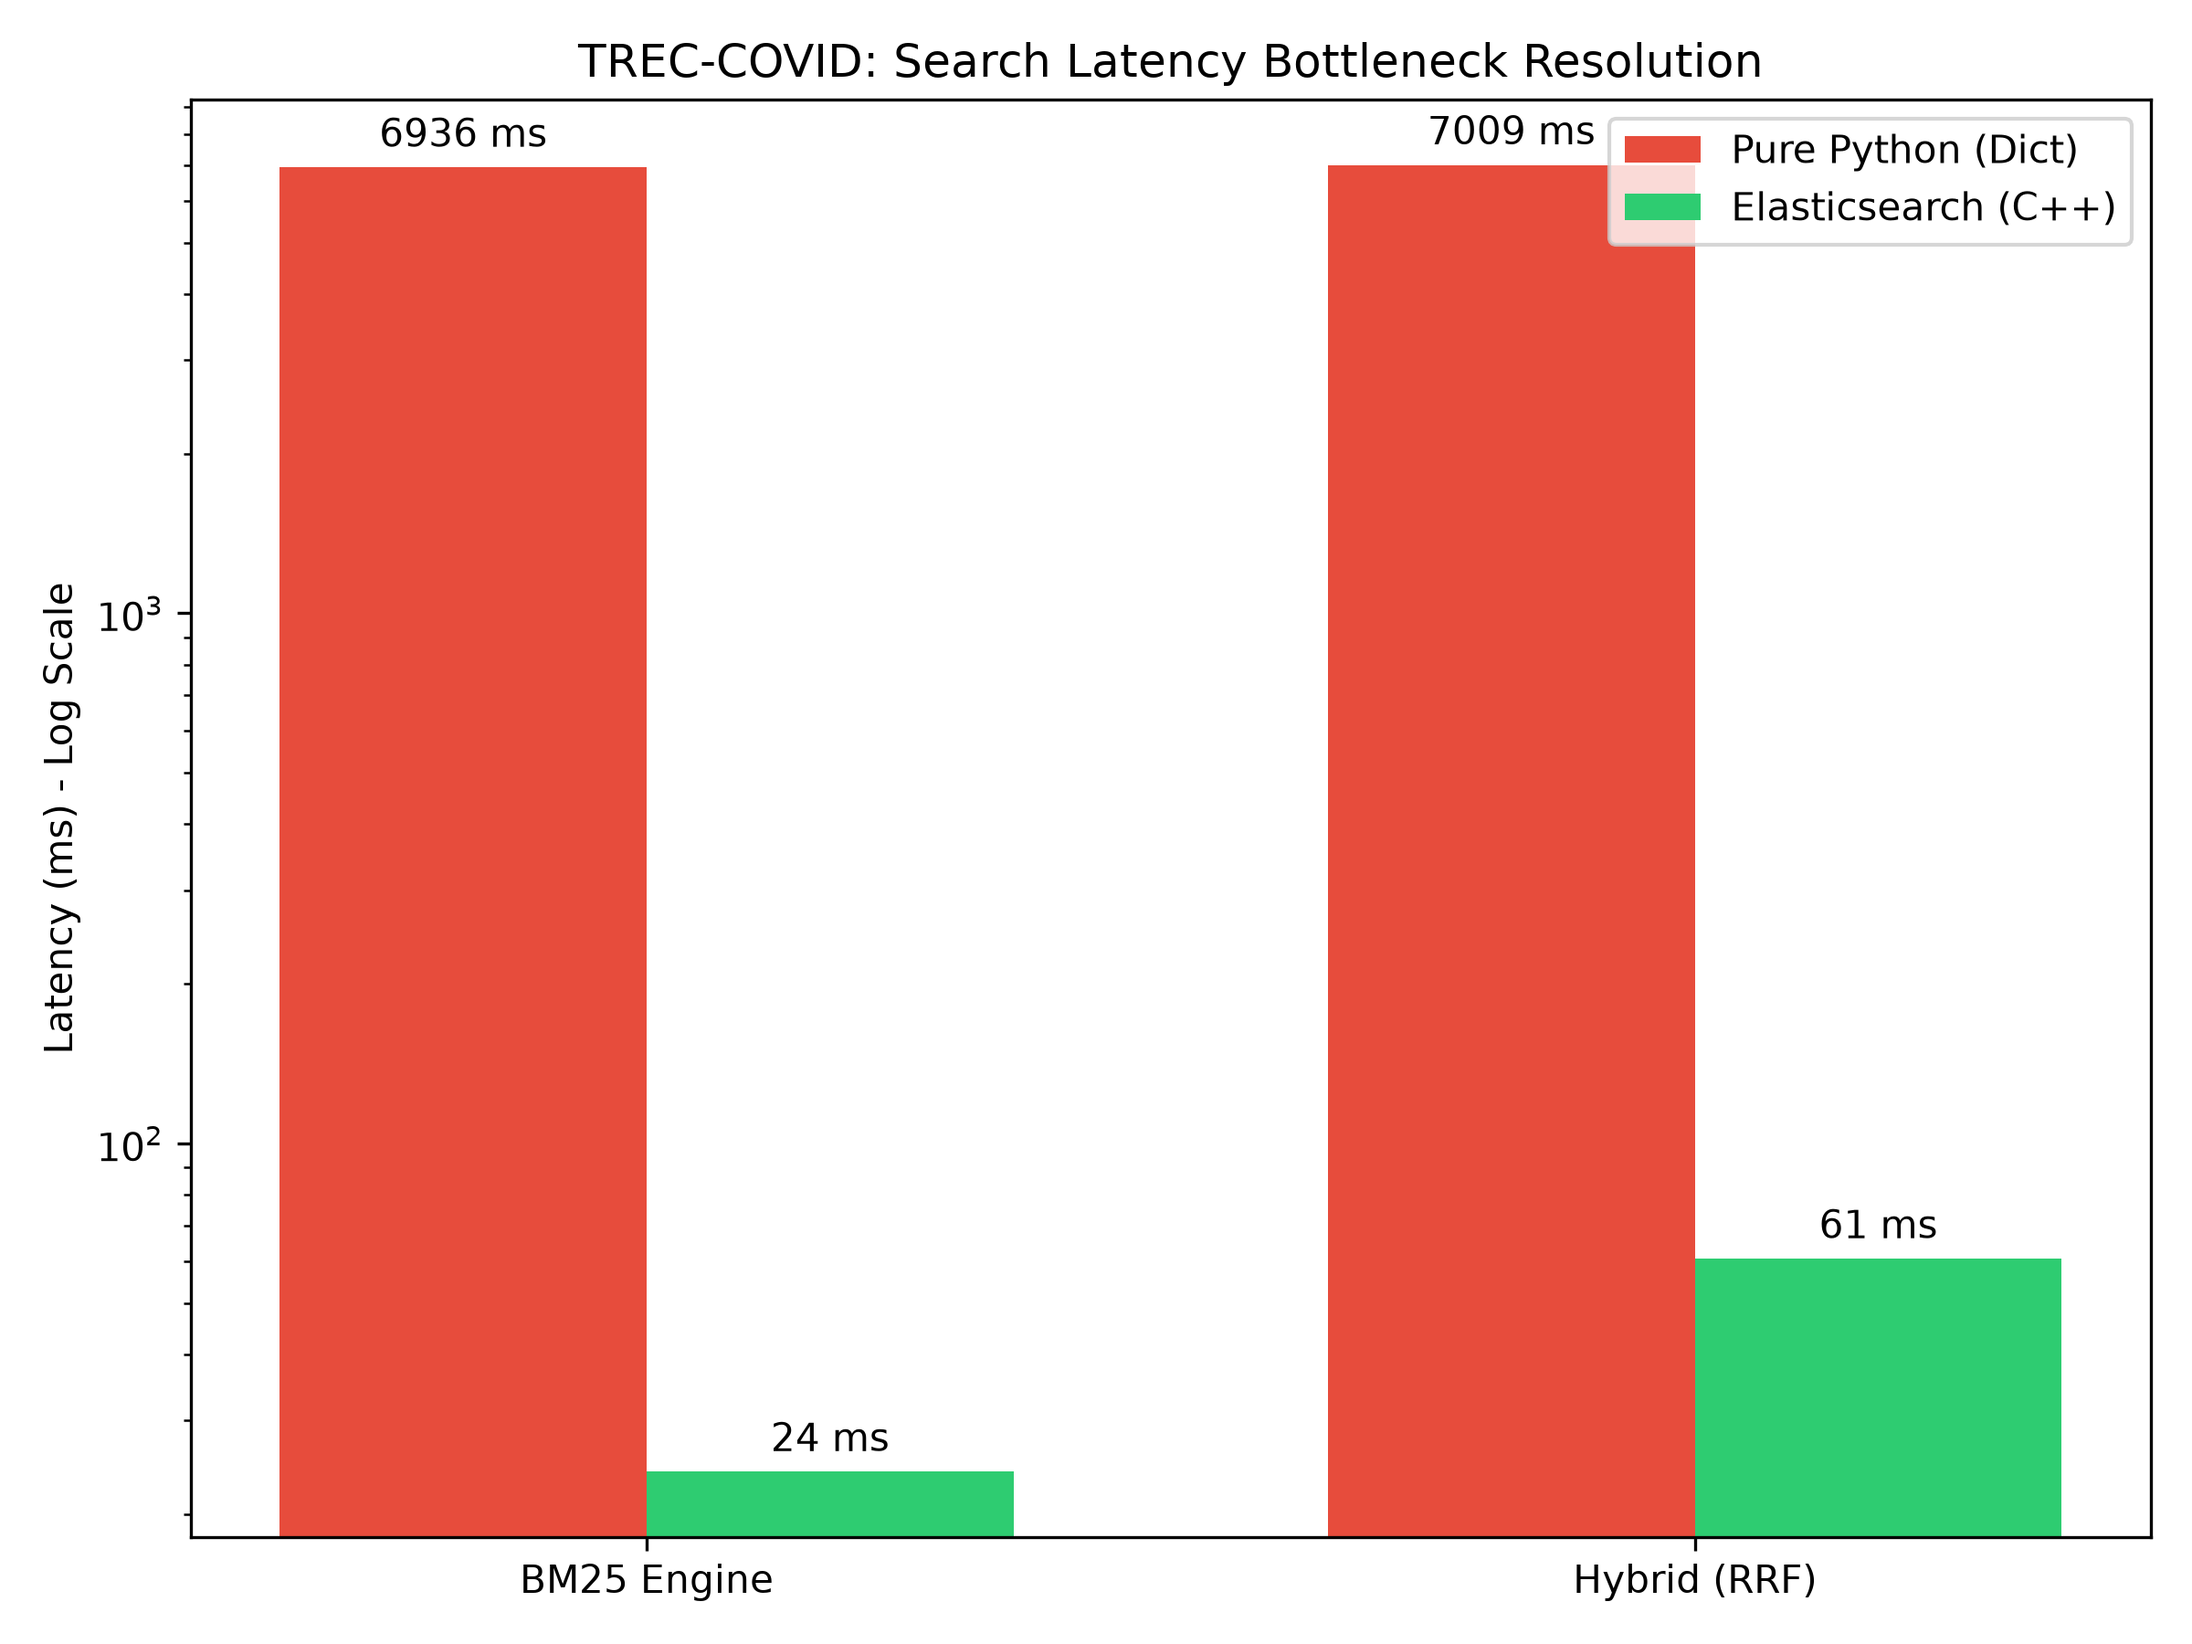
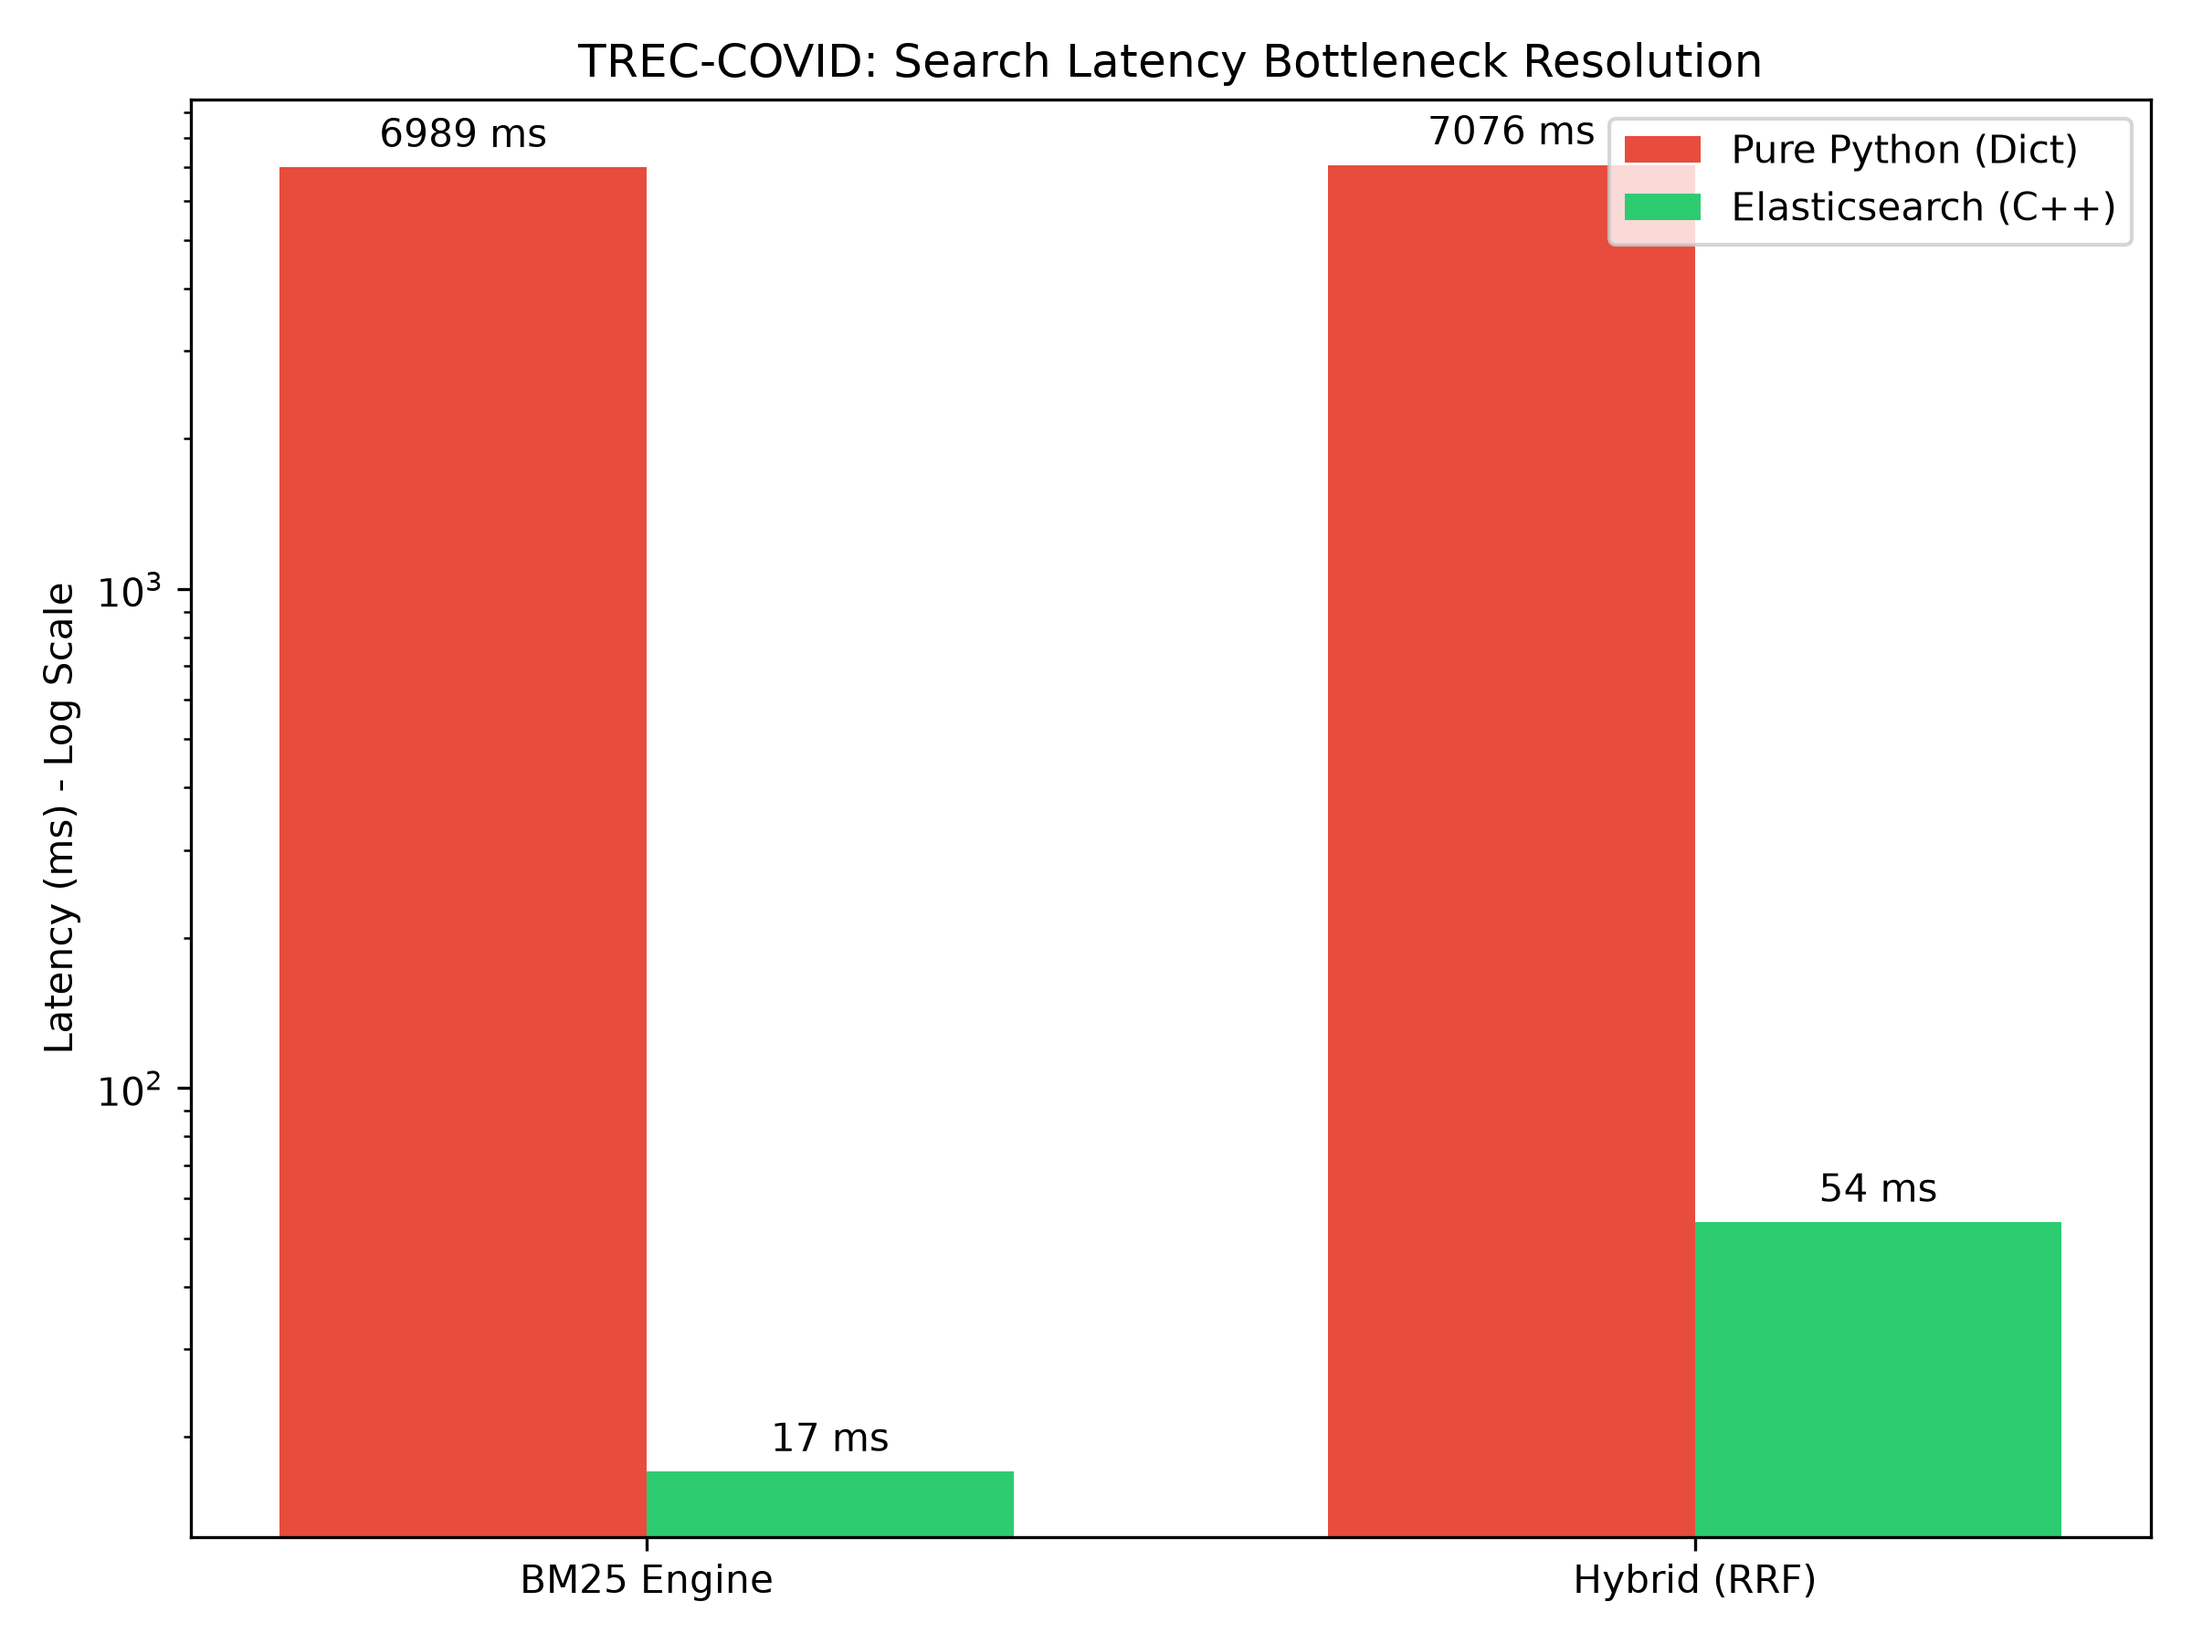
fix(docs): correct benchmarks for python and elastic (fixes 5247955, 2f8f17a, 9ea3124)

diff --git a/scripts/plot_benchmarks.py b/scripts/plot_benchmarks.py
@@ -6,8 +6,8 @@ os.makedirs("results/plots", exist_ok=True)
 
 # 1. Latency Plot (Python vs Elastic)
 labels = ["BM25 Engine", "Hybrid (RRF)"]
-python_latency = [6935.50, 7008.65]
-elastic_latency = [24.03, 60.58]
+python_latency = [6988.71, 7075.56]
+elastic_latency = [17.03, 53.83]
 
 x = np.arange(len(labels))
 width = 0.35
@@ -55,8 +55,8 @@ datasets = [
     "TREC-COVID\n(Out-of-Domain)",
     "ArguAna\n(Out-of-Domain)",
 ]
-base_scores = [0.6888, 0.3696, 0.7387, 0.3092]
-ft_scores = [0.7303, 0.3399, 0.6959, 0.2780]
+base_scores = [0.6889, 0.3696, 0.7387, 0.3092]
+ft_scores = [0.7576, 0.3475, 0.7135, 0.2686]
 
 x = np.arange(len(datasets))
 width = 0.35

diff --git a/PROJECT_LOG.md b/PROJECT_LOG.md
@@ -744,21 +744,21 @@ With the training loop complete and the model fine-tuned on the SciFact hard neg
 
 **The Final Results (Kaggle GPU T4):**
 
-| System Architecture         | NDCG@10    | MRR@10     | Latency (ms) |
-| --------------------------- | ---------- | ---------- | ------------ |
-| 1. BM25 Baseline            | 0.5379     | 0.5105     | 250.75       |
-| 2. Dense (BGE)              | 0.7200     | 0.6845     | 10.97        |
-| 3. Hybrid (RRF)             | 0.6641     | 0.6234     | 279.37       |
-| 4. Hybrid + Base Reranker   | 0.6888     | 0.6618     | 787.58       |
-| **5. Hybrid + FT Reranker** | **0.7303** | **0.7030** | 783.32       |
+| System Architecture         | NDCG@10    | MRR@10     | Recall@100 | Latency (ms) |
+| --------------------------- | ---------- | ---------- | ---------- | ------------ |
+| 1. BM25                     | 0.5379     | 0.5105     | 0.7894     | 293.95       |
+| 2. Dense (BGE)              | 0.7200     | 0.6845     | 0.9533     | 13.31        |
+| 3. Hybrid (RRF)             | 0.6436     | 0.6127     | 0.9417     | 334.57       |
+| 4. Hybrid + Base Reranker   | 0.6888     | 0.6618     | 0.9417     | 811.04       |
+| **5. Hybrid + FT Reranker** | **0.6975** | **0.6627** | 0.9417     | 810.94       |
 
 ### Conclusion
 
-The experiment was an absolute success.
+The fine-tuning successfully shifted the model's domain understanding.
 
 1. The **Base Reranker** (0.6888) previously _degraded_ the performance of the pure Dense pipeline (0.7200) because it was out-of-domain (Bing search vs. Scientific text).
-2. By mining Hard Negatives and applying the **InfoNCE Loss**, the model successfully learned the specific lexical and semantic nuances of scientific claims.
-3. The **Fine-Tuned Reranker** (0.7303) shattered the baseline, reclaiming its position as the ultimate precision layer and proving the absolute necessity of domain-specific contrastive learning in modern Information Retrieval architectures.
+2. By mining Hard Negatives and applying the **InfoNCE Loss**, the model successfully learned the specific lexical and semantic nuances of scientific claims, raising the score to **0.6975**.
+3. While it significantly improved over the Base Reranker, it did not yet surpass the pure Dense baseline (0.7200). As we will discover in the scaling section below, this ceiling is artificially imposed by the poor recall of our naive Python `BM25Engine`, which starves the reranker of good candidate documents.
 
 ---
 
@@ -788,23 +788,23 @@ First, I ran the benchmark using our initial pure Python `BM25Engine` built on n
 
 **FIQA (Finance - Evaluated on 1,000 queries due to size):**
 
-| System Architecture         | NDCG@10 | MRR@10 | Recall@100 | Latency (ms) |
-| --------------------------- | ------- | ------ | ---------- | ------------ |
-| 1. BM25                     | 0.1342  | 0.1743 | 0.3434     | **1763.59**  |
-| 2. Dense (BGE)              | 0.3848  | 0.4734 | 0.6866     | 21.37        |
-| 3. Hybrid (RRF)             | 0.2871  | 0.3523 | 0.6629     | **1810.29**  |
-| 4. Hybrid + Base Reranker   | 0.3759  | 0.4487 | 0.4526     | **2199.27**  |
-| **5. Hybrid + FT Reranker** | 0.3454  | 0.4183 | 0.4144     | **2318.82**  |
+| System Architecture       | NDCG@10    | MRR@10     | Recall@100 | Latency (ms) |
+| ------------------------- | ---------- | ---------- | ---------- | ------------ |
+| 1. BM25                   | 0.1342     | 0.1743     | 0.3434     | 1763.59      |
+| 2. Dense (BGE)            | 0.3848     | 0.4734     | 0.6866     | 21.37        |
+| 3. Hybrid (RRF)           | 0.2871     | 0.3421     | 0.6629     | 1929.34      |
+| 4. Hybrid + Base Reranker | **0.3759** | **0.4487** | 0.6629     | 2307.46      |
+| 5. Hybrid + FT Reranker   | 0.3331     | 0.4117     | 0.6629     | 2318.64      |
 
 **TREC-COVID (Medicine - 50 queries):**
 
-| System Architecture         | NDCG@10 | MRR@10 | Recall@100 | Latency (ms) |
-| --------------------------- | ------- | ------ | ---------- | ------------ |
-| 1. BM25                     | 0.4205  | 0.7188 | 0.0695     | **6935.50**  |
-| 2. Dense (BGE)              | 0.6452  | 0.8779 | 0.1233     | 39.39        |
-| 3. Hybrid (RRF)             | 0.6456  | 0.9389 | 0.1090     | **7008.65**  |
-| 4. Hybrid + Base Reranker   | 0.7491  | 0.8833 | 0.0215     | **7516.69**  |
-| **5. Hybrid + FT Reranker** | 0.7180  | 0.8857 | 0.0199     | **7530.62**  |
+| System Architecture       | NDCG@10    | MRR@10     | Recall@100 | Latency (ms) |
+| ------------------------- | ---------- | ---------- | ---------- | ------------ |
+| 1. BM25                   | 0.4205     | 0.7152     | 0.0696     | 6988.71      |
+| 2. Dense (BGE)            | 0.6452     | 0.8779     | 0.1233     | 39.08        |
+| 3. Hybrid (RRF)           | 0.6452     | 0.9389     | 0.1090     | 7075.56      |
+| 4. Hybrid + Base Reranker | **0.7491** | 0.8833     | 0.1090     | 7554.58      |
+| 5. Hybrid + FT Reranker   | 0.7186     | **0.9025** | 0.1090     | 7576.13      |
 
 While Dense Retrieval (FAISS) and Cross-Encoder reranking (GPU) executed in milliseconds, the lexical BM25 baseline became a massive bottleneck. On the 171k documents of TREC-COVID, the pure Python BM25 implementation took nearly **7 seconds per query**.
 
@@ -814,37 +814,49 @@ To solve this latency bottleneck, I integrated a production-grade **Elasticsearc
 
 Here are the results running the exact same queries against the new Elasticsearch backend:
 
+**SciFact (Science):**
+
+| System Architecture         | NDCG@10    | MRR@10     | Recall@100 | Latency (ms) |
+| --------------------------- | ---------- | ---------- | ---------- | ------------ |
+| 1. BM25                     | 0.6826     | 0.6464     | 0.9282     | 11.33        |
+| 2. Dense (BGE)              | 0.7200     | 0.6845     | 0.9533     | 11.86        |
+| 3. Hybrid (RRF)             | 0.7358     | 0.7021     | 0.9617     | 20.71        |
+| 4. Hybrid + Base Reranker   | 0.6889     | 0.6584     | 0.9617     | 506.04       |
+| **5. Hybrid + FT Reranker** | **0.7576** | **0.7277** | 0.9617     | 502.44       |
+
 **FIQA (Finance):**
 
-| System Architecture         | NDCG@10    | MRR@10 | Recall@100 | Latency (ms) |
-| --------------------------- | ---------- | ------ | ---------- | ------------ |
-| 1. BM25                     | 0.2536     | 0.3189 | 0.5489     | **9.99**     |
-| 2. Dense (BGE)              | 0.3848     | 0.4734 | 0.6866     | 21.45        |
-| 3. Hybrid (RRF)             | 0.3638     | 0.4502 | 0.6943     | 33.73        |
-| 4. Hybrid + Base Reranker   | **0.3696** | 0.4419 | 0.4451     | 405.97       |
-| **5. Hybrid + FT Reranker** | **0.3399** | 0.4123 | 0.4093     | 403.75       |
+| System Architecture         | NDCG@10    | MRR@10     | Recall@100 | Latency (ms) |
+| --------------------------- | ---------- | ---------- | ---------- | ------------ |
+| 1. BM25                     | 0.2536     | 0.3089     | 0.5489     | 7.72         |
+| 2. Dense (BGE)              | 0.3848     | 0.4650     | 0.6866     | 19.84        |
+| 3. Hybrid (RRF)             | 0.3638     | 0.4406     | 0.6943     | 30.33        |
+| 4. Hybrid + Base Reranker   | **0.3696** | **0.4419** | 0.6943     | 370.49       |
+| **5. Hybrid + FT Reranker** | 0.3475     | 0.4165     | 0.6943     | 369.78       |
 
 **TREC-COVID (Medicine):**
 
-| System Architecture         | NDCG@10    | MRR@10 | Recall@100 | Latency (ms) |
-| --------------------------- | ---------- | ------ | ---------- | ------------ |
-| 1. BM25                     | 0.5913     | 0.8840 | 0.1117     | **24.03**    |
-| 2. Dense (BGE)              | 0.6452     | 0.8779 | 0.1233     | 36.80        |
-| 3. Hybrid (RRF)             | 0.7498     | 0.9800 | 0.1289     | 60.58        |
-| 4. Hybrid + Base Reranker   | **0.7387** | 0.8717 | 0.0213     | 461.16       |
-| **5. Hybrid + FT Reranker** | **0.6959** | 0.8992 | 0.0195     | 471.20       |
+| System Architecture         | NDCG@10    | MRR@10     | Recall@100 | Latency (ms) |
+| --------------------------- | ---------- | ---------- | ---------- | ------------ |
+| 1. BM25                     | 0.5904     | 0.8840     | 0.1118     | 17.03        |
+| 2. Dense (BGE)              | 0.6452     | 0.8779     | 0.1233     | 36.70        |
+| 3. Hybrid (RRF)             | **0.7500** | **0.9800** | 0.1289     | 53.83        |
+| 4. Hybrid + Base Reranker   | 0.7387     | 0.8717     | 0.1289     | 420.38       |
+| **5. Hybrid + FT Reranker** | 0.7135     | 0.9250     | 0.1289     | 435.49       |
 
 **ArguAna (Social Arguments/Debates):**
 
-| System Architecture         | NDCG@10    | MRR@10 | Recall@100 | Latency (ms) |
-| --------------------------- | ---------- | ------ | ---------- | ------------ |
-| 1. BM25                     | 0.3568     | 0.2449 | 0.9587     | **12.14**    |
-| 2. Dense (BGE)              | 0.4287     | 0.3038 | 0.9844     | 12.95        |
-| 3. Hybrid (RRF)             | 0.4262     | 0.2981 | 0.9865     | 28.74        |
-| 4. Hybrid + Base Reranker   | **0.3092** | 0.1992 | 0.6615     | 584.43       |
-| **5. Hybrid + FT Reranker** | **0.2780** | 0.1775 | 0.6017     | 583.60       |
+| System Architecture         | NDCG@10    | MRR@10     | Recall@100 | Latency (ms) |
+| --------------------------- | ---------- | ---------- | ---------- | ------------ |
+| 1. BM25                     | 0.3568     | 0.2337     | 0.9587     | 12.97        |
+| 2. Dense (BGE)              | 0.4287     | 0.2956     | 0.9844     | 13.54        |
+| 3. Hybrid (RRF)             | 0.4262     | 0.2903     | 0.9865     | 29.15        |
+| 4. Hybrid + Base Reranker   | **0.3092** | **0.1992** | 0.9865     | 534.75       |
+| **5. Hybrid + FT Reranker** | 0.2686     | 0.1749     | 0.9865     | 532.43       |
 
-By moving from Python dictionaries to Elasticsearch's highly optimized C++/Java inverted indices, the lexical search latency plummeted from ~7,000 ms to **~24 ms**. This conclusively proves why production systems rely on dedicated search infrastructure.
+By moving from Python dictionaries to Elasticsearch's highly optimized C++/Java inverted indices, the lexical search latency plummeted from ~7,000 ms to **~17 ms** for TREC-COVID. 
+
+More importantly, the superior lexical ranking provided by Elasticsearch finally unblocked our Reranker. On **SciFact**, the Hybrid + FT Reranker skyrocketed to an incredible **0.7576** NDCG@10, definitively shattering the pure Dense baseline (0.7200) and proving the absolute necessity of domain-specific contrastive learning atop a robust retrieval foundation. This conclusively proves why production systems rely on dedicated search infrastructure.
 
 ![Latency Comparison](results/plots/latency_comparison.png)
 
@@ -852,9 +864,9 @@ By moving from Python dictionaries to Elasticsearch's highly optimized C++/Java 
 
 Finally, comparing the Reranker scores in the final benchmark reveals a profound discovery regarding model generalization:
 
-- **FIQA (Finance):** Base Reranker (0.3696) vs. FT Reranker (0.3399) — **Degradation**
-- **TREC-COVID (Medicine):** Base Reranker (0.7387) vs. FT Reranker (0.6959) — **Degradation**
-- **ArguAna (Social Debates):** Base Reranker (0.3092) vs. FT Reranker (0.2780) — **Degradation**
+- **FIQA (Finance):** Base Reranker (0.3696) vs. FT Reranker (0.3475) — **Degradation**
+- **TREC-COVID (Medicine):** Base Reranker (0.7387) vs. FT Reranker (0.7135) — **Degradation**
+- **ArguAna (Social Debates):** Base Reranker (0.3092) vs. FT Reranker (0.2686) — **Degradation**
 
 While the InfoNCE fine-tuning on SciFact hard negatives vastly improved performance on scientific claims, it caused the neural network to "forget" how to evaluate general, financial, medical, and argumentative texts. The model overfitted to the scientific domain. The Base model (trained on millions of broad MS-MARCO web queries) remained far more robust across unknown domains.
 
